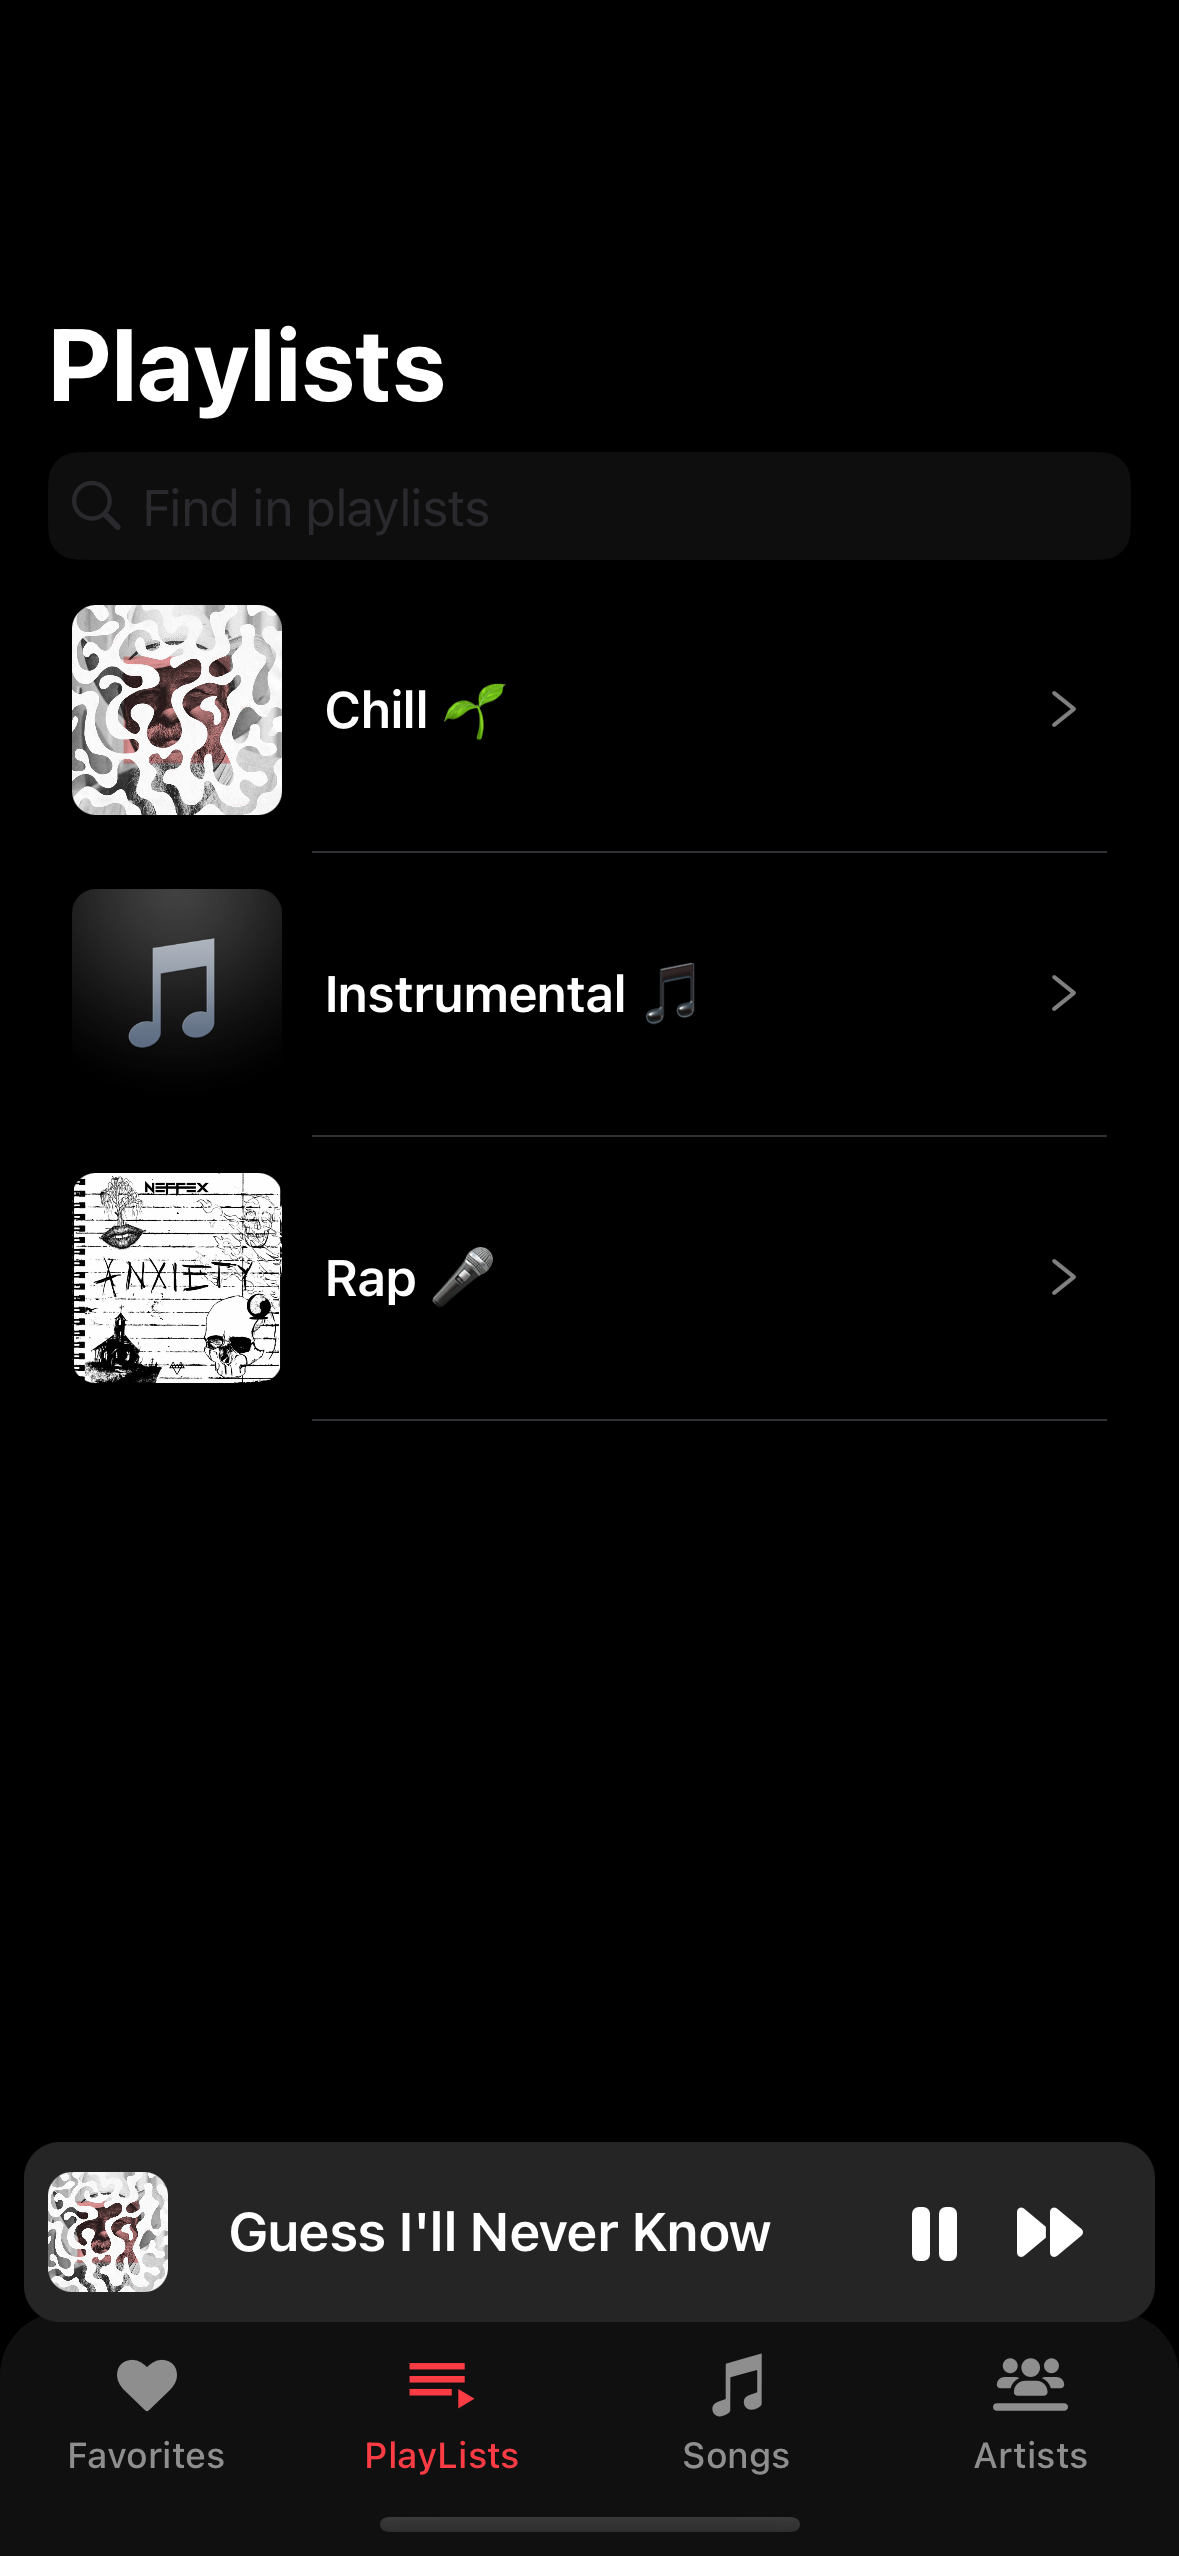
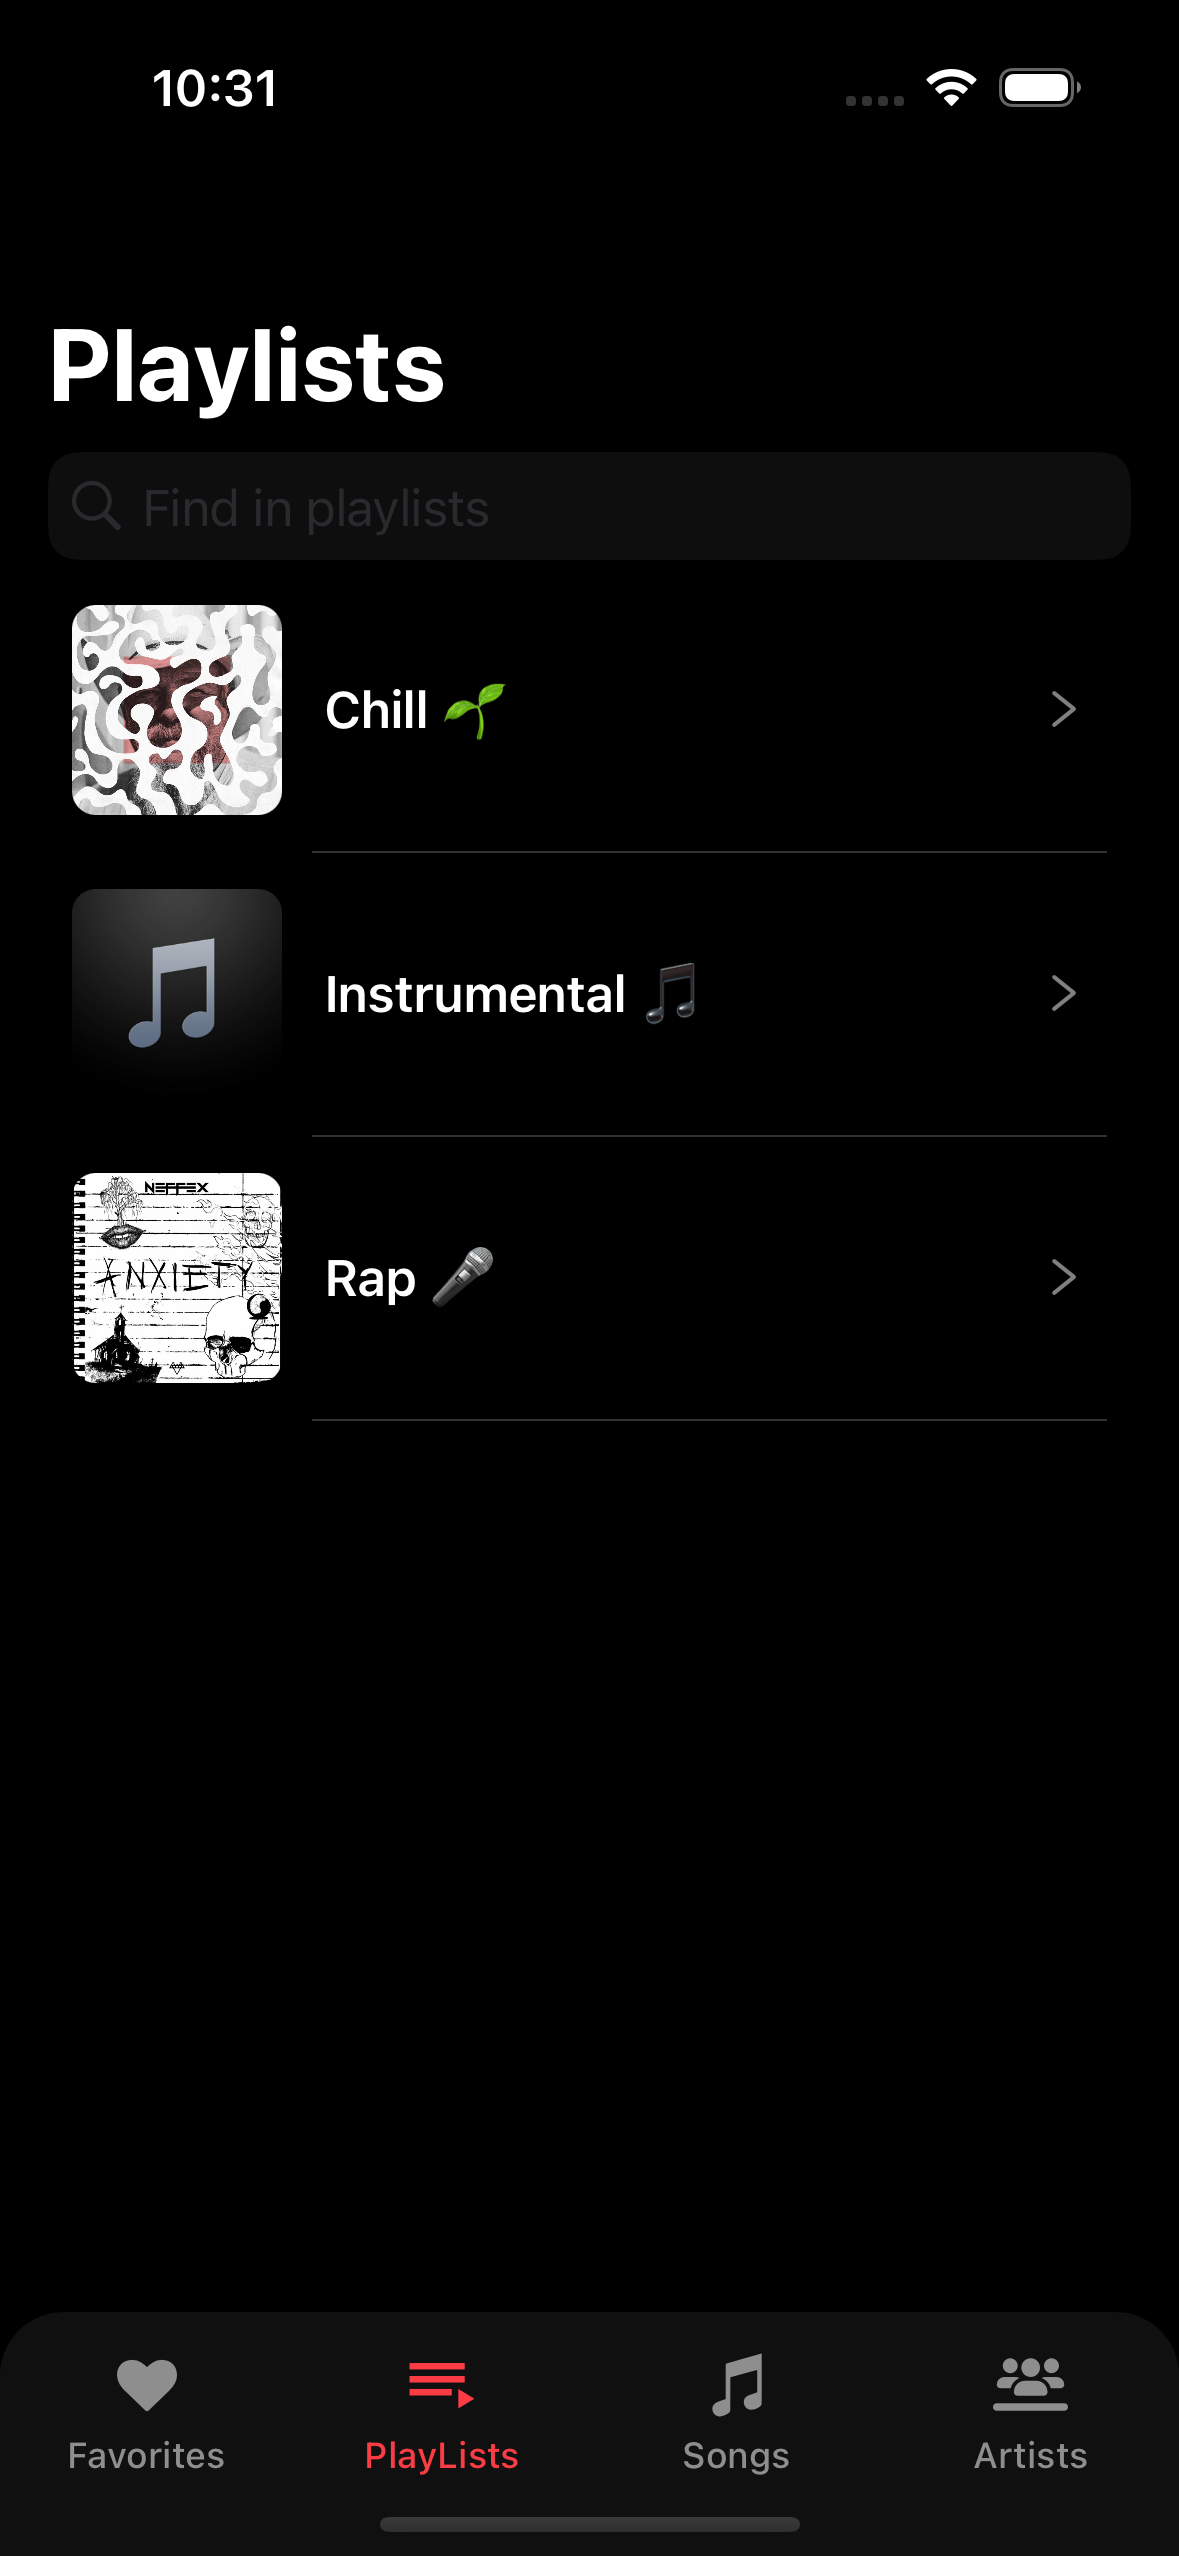
add status bar color

diff --git a/app/(tabs)/favorites/index.tsx b/app/(tabs)/favorites/index.tsx
@@ -5,6 +5,7 @@ import { generateTracksListId } from "@/helpers/miscellaneous";
 import { useNavigationSearch } from "@/hooks/useNavigationSearch";
 import { useFavorite } from "@/store/library";
 import { defaultStyles } from "@/styles";
+import { StatusBar } from "expo-status-bar";
 import { useMemo } from "react";
 import { ScrollView, View } from "react-native";
 
@@ -26,6 +27,8 @@ const FavoriteScreen = () => {
 
   return (
     <View style={defaultStyles.container}>
+      <StatusBar style="light" />
+
       <ScrollView
         contentInsetAdjustmentBehavior="automatic"
         style={{ paddingHorizontal: screenPadding.horizontal }}

diff --git a/app/(tabs)/(songs)/index.tsx b/app/(tabs)/(songs)/index.tsx
@@ -5,6 +5,7 @@ import { generateTracksListId } from "@/helpers/miscellaneous";
 import { useNavigationSearch } from "@/hooks/useNavigationSearch";
 import { useTracks } from "@/store/library";
 import { defaultStyles } from "@/styles";
+import { StatusBar } from "expo-status-bar";
 import { useMemo } from "react";
 import { ScrollView, View } from "react-native";
 
@@ -26,6 +27,8 @@ const SongScreen = () => {
 
   return (
     <View style={defaultStyles.container}>
+      <StatusBar style="light" />
+
       <ScrollView
         contentInsetAdjustmentBehavior="automatic"
         style={{ paddingHorizontal: screenPadding.horizontal }}

diff --git a/app/(tabs)/playlists/index.tsx b/app/(tabs)/playlists/index.tsx
@@ -6,6 +6,7 @@ import { useNavigationSearch } from "@/hooks/useNavigationSearch";
 import { usePlaylists } from "@/store/library";
 import { defaultStyles } from "@/styles";
 import { useRouter } from "expo-router";
+import { StatusBar } from "expo-status-bar";
 import { useMemo } from "react";
 import { ScrollView, View } from "react-native";
 
@@ -32,6 +33,8 @@ const PlayListScreen = () => {
 
   return (
     <View style={defaultStyles.container}>
+      <StatusBar style="light" />
+
       <ScrollView
         contentInsetAdjustmentBehavior="automatic"
         contentContainerStyle={{ paddingHorizontal: screenPadding.horizontal }}

diff --git a/app/(tabs)/artists/[name].tsx b/app/(tabs)/artists/[name].tsx
@@ -3,6 +3,7 @@ import { screenPadding } from "@/constants/tokens";
 import { useArtists } from "@/store/library";
 import { defaultStyles } from "@/styles";
 import { Redirect, useLocalSearchParams } from "expo-router";
+import { StatusBar } from "expo-status-bar";
 import React from "react";
 import { ScrollView, View } from "react-native";
 
@@ -21,6 +22,8 @@ const ArtistDetailScreen = () => {
 
   return (
     <View style={defaultStyles.container}>
+      <StatusBar style="light" />
+
       <ScrollView
         contentInsetAdjustmentBehavior="automatic"
         style={{ paddingHorizontal: screenPadding.horizontal }}

diff --git a/app/(tabs)/playlists/[name].tsx b/app/(tabs)/playlists/[name].tsx
@@ -3,6 +3,7 @@ import { screenPadding } from "@/constants/tokens";
 import { usePlaylists } from "@/store/library";
 import { defaultStyles } from "@/styles";
 import { Redirect, useLocalSearchParams } from "expo-router";
+import { StatusBar } from "expo-status-bar";
 import React from "react";
 import { ScrollView, View } from "react-native";
 
@@ -21,6 +22,8 @@ const PlaylistScreen = () => {
 
   return (
     <View style={defaultStyles.container}>
+      <StatusBar style="light" />
+
       <ScrollView
         contentInsetAdjustmentBehavior="automatic"
         style={{ paddingHorizontal: screenPadding.horizontal }}

diff --git a/app/(tabs)/artists/index.tsx b/app/(tabs)/artists/index.tsx
@@ -15,6 +15,7 @@ import { artistNameFilter } from "@/helpers/filter";
 import FastImage from "react-native-fast-image";
 import { unknownArtistImageUri } from "@/constants/images";
 import { Link } from "expo-router";
+import { StatusBar } from "expo-status-bar";
 
 const ArtistScreen = () => {
   const search = useNavigationSearch({
@@ -70,6 +71,8 @@ const ArtistScreen = () => {
 
   return (
     <View style={defaultStyles.container}>
+      <StatusBar style="light" />
+
       <ScrollView
         style={{ paddingHorizontal: screenPadding.horizontal }}
         contentInsetAdjustmentBehavior="automatic"

diff --git a/app/(tabs)/_layout.tsx b/app/(tabs)/_layout.tsx
@@ -9,7 +9,7 @@ import {
 import { BlurView } from "expo-blur";
 import { Tabs } from "expo-router";
 import { Platform, StyleSheet } from "react-native";
-import { verticalScale, scale, moderateScale } from "react-native-size-matters";
+import { moderateScale, verticalScale } from "react-native-size-matters";
 
 const TabsNavigation = () => {
   return (
